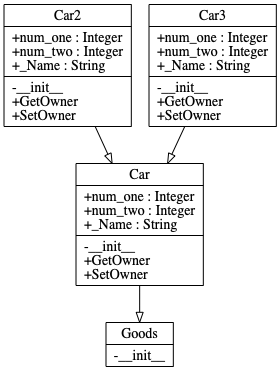
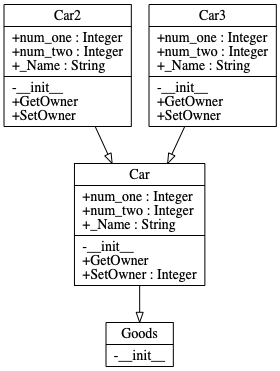
refactor

Changed region(s): [[0.2571, 0.4447, 0.7429, 0.7709]]

diff --git a/core/parser.py b/core/parser.py
@@ -1,0 +1,114 @@
+from typed_ast import ast3
+
+
+class ClassRecorder:
+    """
+    record the class data
+    """
+    def __init__(self, name):  # type: String
+        self._name = name
+        self._members = list()
+        self._methods = list()
+        self._base_classes = list()
+
+    @property
+    def name(self):
+        return self._name
+
+    @name.setter
+    def name(self, name):
+        self._name = name
+
+    @property
+    def members(self):
+        return self._members
+
+    @members.setter
+    def members(self, members):
+        self._members = members
+
+    @property
+    def methods(self):
+        return self._methods
+
+    @members.setter
+    def methods(self, methods):
+        self._methods = methods
+
+    @property
+    def parents(self):
+        return self._base_classes
+
+    @parents.setter
+    def parents(self, parents):
+        self._base_classes = parents
+
+
+class ClassParser(ast3.NodeVisitor):
+    """
+    Parese the source code
+    """
+
+    def __init__(self):
+        super().__init__()
+        self.classes_list = list()
+
+    def visit_Module(self, node):
+        """
+        :param node:
+        :return:
+        """
+        for n in node.body:
+            self.visit(n)
+
+    def visit_ClassDef(self, node):
+        """
+        todo
+        """
+        assert node is not None
+
+        # class_dic = dict()
+        # class_dic['name'] = node.name
+        # class_dic['members'] = list()
+        # class_dic['methods'] = list()
+        # class_dic['base_classes'] = list()
+        #
+        # class_dic['base_classes'] = node.bases
+
+        class_recorder = ClassRecorder(node.name)
+
+        for child in node.body:
+            if isinstance(child, ast3.FunctionDef):
+                # private methods
+                type_comment = ""
+                if child.type_comment is not None:
+                    type_comment = " : " + child.type_comment
+                if child.name.startswith('__'):
+                    class_recorder.methods.append('-' + child.name + type_comment)
+                else:
+                    class_recorder.methods.append('+' + child.name + type_comment)
+
+                # constructor
+                if child.name == '__init__':
+                    for code in child.body:
+                        if isinstance(code, ast3.Assign):
+                            # add type comment
+                            type_comment = ""
+                            if code.type_comment is not None:
+                                type_comment = " : " + code.type_comment
+                            for target in code.targets:
+                                if isinstance(target, ast3.Attribute):
+                                    if isinstance(target.value, ast3.Name):
+                                        if target.value.id == 'self':
+                                            # private member
+                                            if target.attr.startswith('__'):
+                                                class_recorder.members.append('-' + target.attr + type_comment)
+                                            else:
+                                                class_recorder.members.append('+' + target.attr + type_comment)
+
+        self.classes_list.append(class_recorder)
+        ast3.NodeVisitor.generic_visit(self, node)
+
+    def visit_FunctionDef(self, node):
+        print(node.name)
+        self.generic_visit(node)

diff --git a/main.py b/main.py
@@ -1,10 +1,13 @@
-from utils.parser import ClassParser
-from utils.basecmd import BaseCmd
-from utils.loader import Loader
+import argparse
+import shlex
+from core.parser import ClassParser
+from core.basecmd import BaseCmd
+from core.loader import Loader
+from core.writer import DotWriter
+from config import config
+
 from typed_ast import ast3
 from graphviz import Source
-
-from utils.writer import DotWriter
 
 pyuml_version = "0.0.1"
 
@@ -57,10 +60,17 @@ class PyUML(BaseCmd):
 
     def do_2uml(self, args):
         """
-        todo
+        Generate UML diagram from Python source code
         """
-        dot_string = self._parse_to_dot(args)
-        self._render_with_graphviz(dot_string)
+        parser = argparse.ArgumentParser(prog='2uml')
+        parser.add_argument('Input', help='input file')
+        parser.add_argument('Output', help='output file')
+        try:
+            splitargs = parser.parse_args(shlex.split(args))
+            dot_string = self._parse_to_dot(splitargs.Input)
+            self._render_with_graphviz(dot_string)
+        except:
+            pass
 
     def _parse_to_dot(self, args):
         """
@@ -79,6 +89,33 @@ class PyUML(BaseCmd):
     def _render_with_graphviz(self, dot):
         src = Source(dot)
         src.render(format='png', filename="result/uml")
+
+    def do_persistent(self, args):
+        """
+        Generate serialization data from AST obj.
+        """
+        parser = argparse.ArgumentParser(prog='read')
+        parser.add_argument('Input', help='input file')
+        parser.add_argument('Output', help='output file')
+        try:
+            splitargs = parser.parse_args(shlex.split(args))
+
+        except Exception as e:
+            print("ERROR", e)
+
+    def do_load(self, args):
+        """
+        Deserialize AST data from serialization data
+        """
+        parser = argparse.ArgumentParser(prog='read')
+        parser.add_argument('Input', help='input file')
+        parser.add_argument('Output', help='output file')
+
+        try:
+            splitargs = parser.parse_args(shlex.split(args))
+
+        except Exception as e:
+            print("ERROR", e)
 
 
 if __name__ == '__main__':

diff --git a/core/writer.py b/core/writer.py
@@ -4,14 +4,7 @@ class DotWriter:
     """
 
     def __init__(self):
-        self.styles = [
-            dict(arrowtail="none", arrowhead="open"),
-            dict(arrowtail="none", arrowhead="empty"),
-            dict(arrowtail="node", arrowhead="empty", style="dashed"),
-            dict(
-                fontcolor="green", arrowtail="none", arrowhead="diamond", style="solid"
-            ),
-        ]
+        pass
 
     def write(self, classes):
         """
@@ -37,9 +30,9 @@ class DotWriter:
         todo
         """
         for index in range(len(classes)):
-            dot_string = self._write_class(dot_string, index, classes[index]["name"])
-            dot_string = self._write_members(dot_string, classes[index]["members"])
-            dot_string = self._write_methods(dot_string, classes[index]["methods"])
+            dot_string = self._write_class(dot_string, index, classes[index].name)
+            dot_string = self._write_members(dot_string, classes[index].members)
+            dot_string = self._write_methods(dot_string, classes[index].methods)
             dot_string += ",shape=\"record\"]"
             dot_string += ";\n"
 

diff --git a/core/loader.py b/core/loader.py
@@ -1,0 +1,23 @@
+
+class Loader:
+
+    def load_from_file(self, path):
+        """
+        :param path:
+        :return:
+        """
+        # path = '/Users/chenjiadong/Documents/funnyCode/PythonRepo/pyuml/OOPBasicClass.py'
+        try:
+            f = open(path, "r")
+            string = f.read()
+            print(string)
+            f.close()
+            return string
+
+        except IOError:
+            print("Could not load file:{}".format(path))
+
+        except:
+            pass
+
+

diff --git a/OOPBasicClass.py b/OOPBasicClass.py
@@ -1,4 +1,7 @@
 # Code from https://github.com/hussien89aa/PythonTutorial
+from traitlets import Integer
+
+
 class Goods:
     def __init__(self):
         pass
@@ -13,7 +16,7 @@ class Car(Goods):
     def GetOwner(self):
         print("Owner is ", self._Name)
 
-    def SetOwner(self, Name):
+    def SetOwner(self, Name: Integer): # type: Integer
         self._Name = Name
 
 class Car2(Car):

diff --git a/core/basecmd.py b/core/basecmd.py
@@ -12,10 +12,6 @@ class BaseCmd(cmd.Cmd):
         todo
         """
         cmd.Cmd.do_help(self, args)
-        # parser = argparse.ArgumentParser(prog = 'pyuml', add_help = False)
-        # parser.add_argument('-i', help='input')
-        # parser.add_argument('-o', help='output')
-        # parser.print_help()
 
     def emptyline(self):
         """

diff --git a/core/serialization.py b/core/serialization.py
@@ -1,0 +1,11 @@
+import shelve
+
+
+class Serialization:
+    def __init__(self):
+        pass
+
+    def write(self, obj):
+        db = shelve.open("ast.db")
+        db.dict["test"] = 1
+

diff --git a/config/config.py b/config/config.py
@@ -1,0 +1,3 @@
+import configparser
+
+# class Config:
